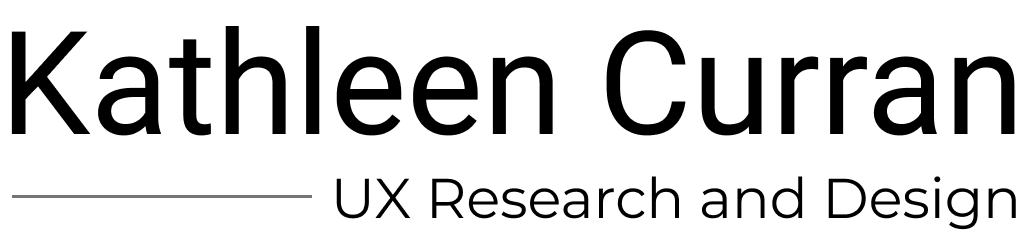
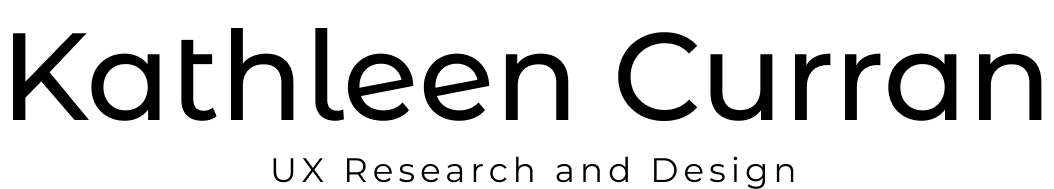
Styling changes to header and about

Changed region(s): [[0.0, 0.1058, 0.9981, 0.6349], [0.0, 0.7672, 0.9981, 1.0], [0.5302, 0.5556, 0.5614, 0.6349]]

diff --git a/about.html b/about.html
@@ -54,7 +54,62 @@
   </nav>
 
   <main>
+
+
     <div class="about-content">
+      <div class="about-header">
+        <h1>Great to meet you!</h1>
+      </div>
+
+      <div class="about-pre-mich">
+        <p> I always thought I wanted to be
+          a software engineer when I grew up. </p>
+
+        <p>But while full of puzzles, it was missing the people. And as hard as
+          I tried to make my developer job more user-focused, that simply isn’t
+          the role. </p>
+
+        <p>After a <span style="font-size: 1.5rem;">small</span> existential
+          crisis, I decided to switch careers into UX, where I could take on a
+          much more user-focused role.</p>
+
+        <p>I have always been passionate about designing technology for users,
+          but this time it’s actually in my job description. </p>
+
+      </div>
+      <div class="about-me-pic">
+        <img src="/images/about imgs/kat-corn.png"
+          alt="Kat wearing a white shirt and jeans, standing in a corn field">
+        <figcaption>Channeling my inner Midwest - <br>they say I'm outstanding
+          in my
+          field</figcaption>
+
+      </div>
+
+      <div class="about-me-mich">
+        <p>I’m currently completing my degree in UX and HCI at the University of
+          Michigan.</p>
+
+        <p>I am in UX because I aim to improve the lives of users and ensure
+          their needs are being met.</p>
+
+      </div>
+
+      <div class="mich-img-container">
+        <div id="group-before">
+          <img src="images/about imgs/501-group.png">
+          <figcaption>My first UX team at Michigan, before and
+            after our final presentation </figcaption>
+        </div>
+
+        <div id="group-after">
+          <img src="images/about imgs/image 4.png">
+        </div>
+
+
+
+      </div>
+      <!-- <div class="about-content">
       <div class="about-text">
         <h1>Hi I'm Kathleen and I'm a UX Researcher and Designer!</h1>
         <p>I'm currently finishing up my degree in UX Research and Design at the
@@ -81,7 +136,7 @@
       <img class="headshot"
         alt="headshot of Kathleen, a white woman wearing a gray and white striped shirt on a gray background"
         src="images/headshot.JPG">
-    </div>
+    </div> -->
   </main>
 
 

diff --git a/homepage.css b/homepage.css
@@ -269,9 +269,71 @@
 /* ~~~~~~~~About me page~~~~~~~~~ */
 .about-content {
   display: grid;
-  grid-template-columns: 1fr 1fr;
+  grid-template-columns: 0.25fr 1fr 1fr 0.25fr;
   margin: 2rem;
   column-gap: 2rem;
+  row-gap: 2rem;
+}
+
+.about-header {
+  grid-column: 2/4;
+  text-align: center;
+  grid-row: 1;
+}
+
+.about-pre-mich {
+  grid-column: 2;
+  grid-row: 2;
+}
+
+.about-me-pic {
+  grid-column: 3;
+  display: flex;
+  align-items: center;
+  flex-direction: column;
+  grid-row: 2;
+}
+
+.about-me-pic img {
+  width: 70%;
+}
+
+.about-me-mich {
+  grid-row: 3;
+  grid-column: 3;
+}
+
+.mich-img-container {
+  grid-row: 3;
+  grid-column: 2;
+  width: 100%;
+  display: grid;
+  grid-template-columns: repeat(12, 1fr);
+  position: relative;
+}
+
+#group-before {
+  grid-column: 1 / span 9;
+  grid-row: 1;
+  width: 100%;
+  padding-right: 1rem;
+}
+
+#group-after {
+  grid-column: 8 / -1;
+  grid-row: 1;
+  z-index: 1;
+  width: 100%;
+  padding-top: 10%;
+}
+
+#group-before figcaption {
+  width: 70%;
+}
+
+#group-before img,
+#group-after img {
+  width: 100%;
 }
 
 .about-text {

diff --git a/sahiyo.css b/sahiyo.css
@@ -137,7 +137,8 @@
 
 .rec-card {
   margin: 0.5rem;
-  background-color: #bcece5;
+  /* background-color: #bcece5; */
+  background-color: #dde6c6;
   color: #00201d;
 }
 

diff --git a/navbar.css b/navbar.css
@@ -10,7 +10,7 @@
 }
 
 .kat-icon {
-  width: 40%;
+  width: 35%;
 }
 
 .kat-icon img {
